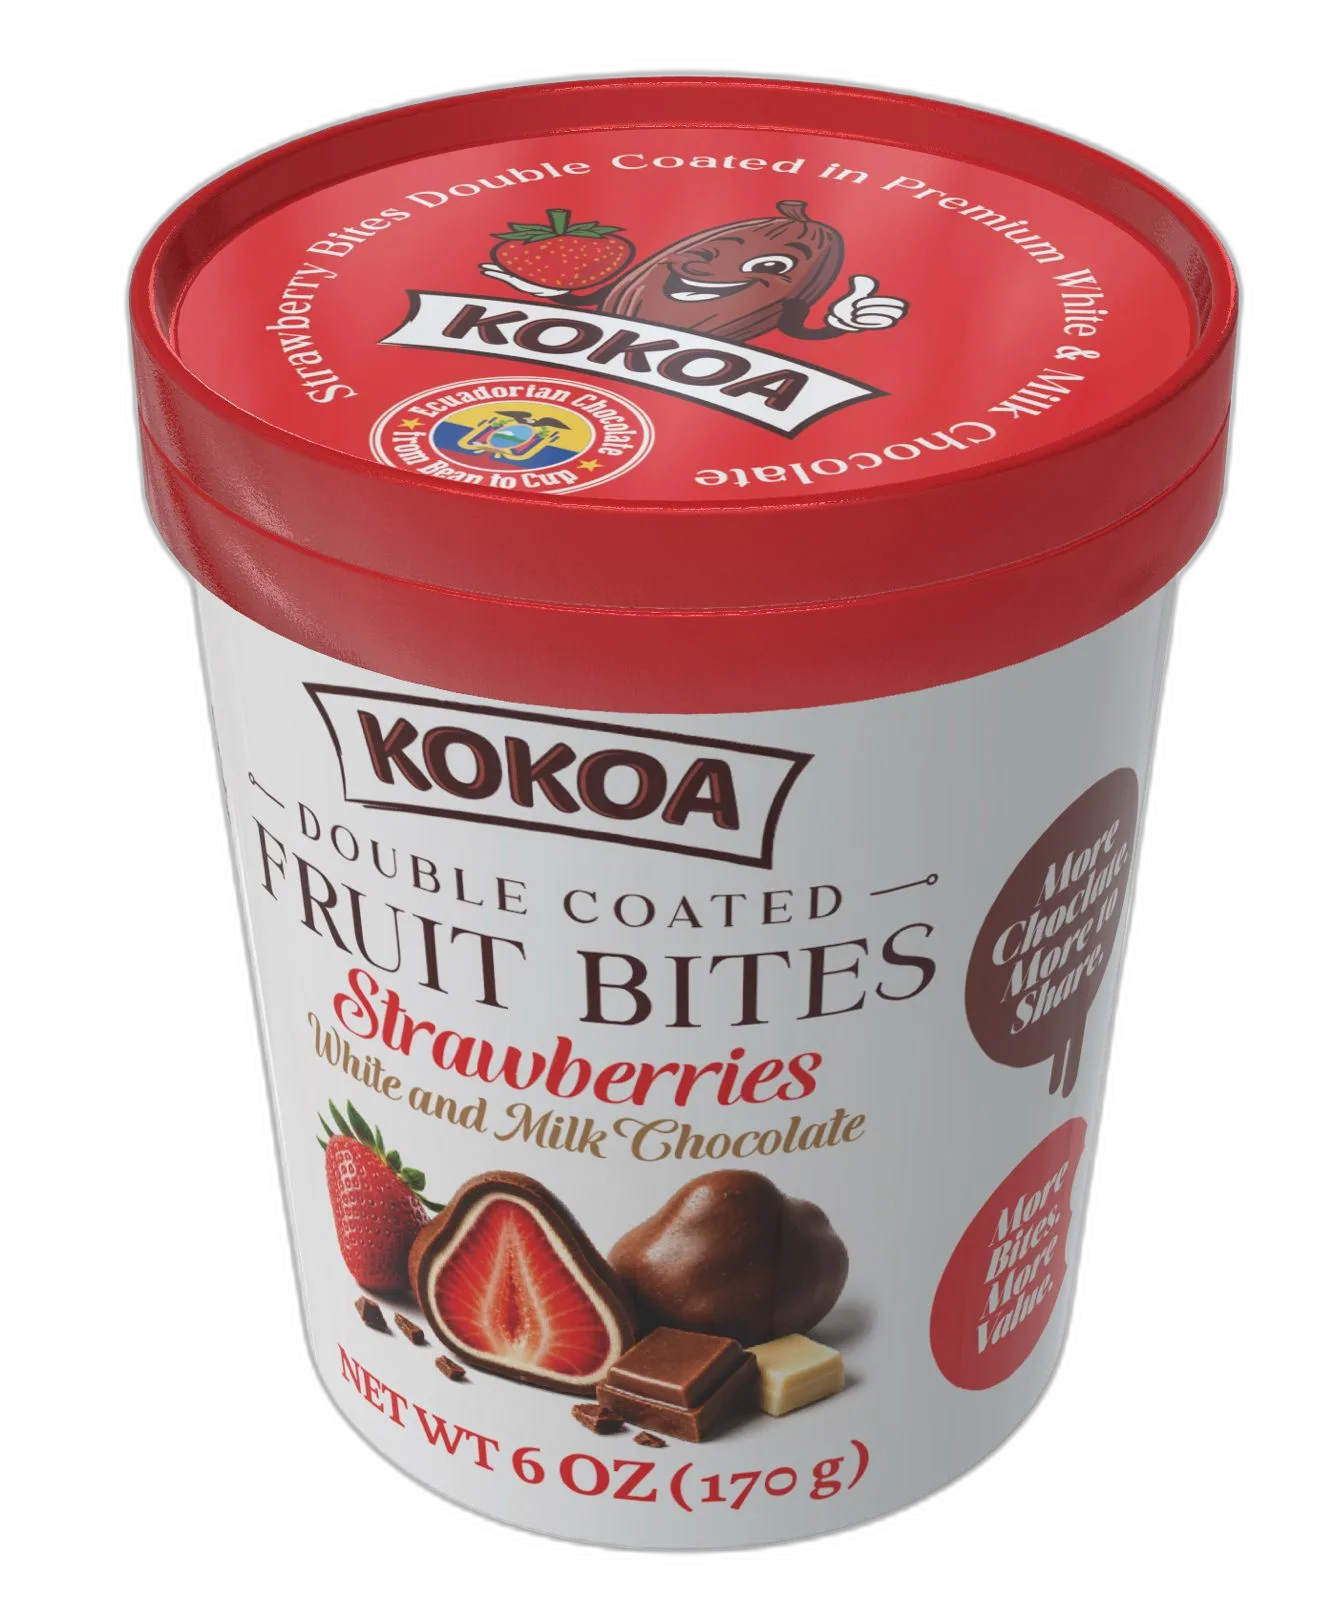
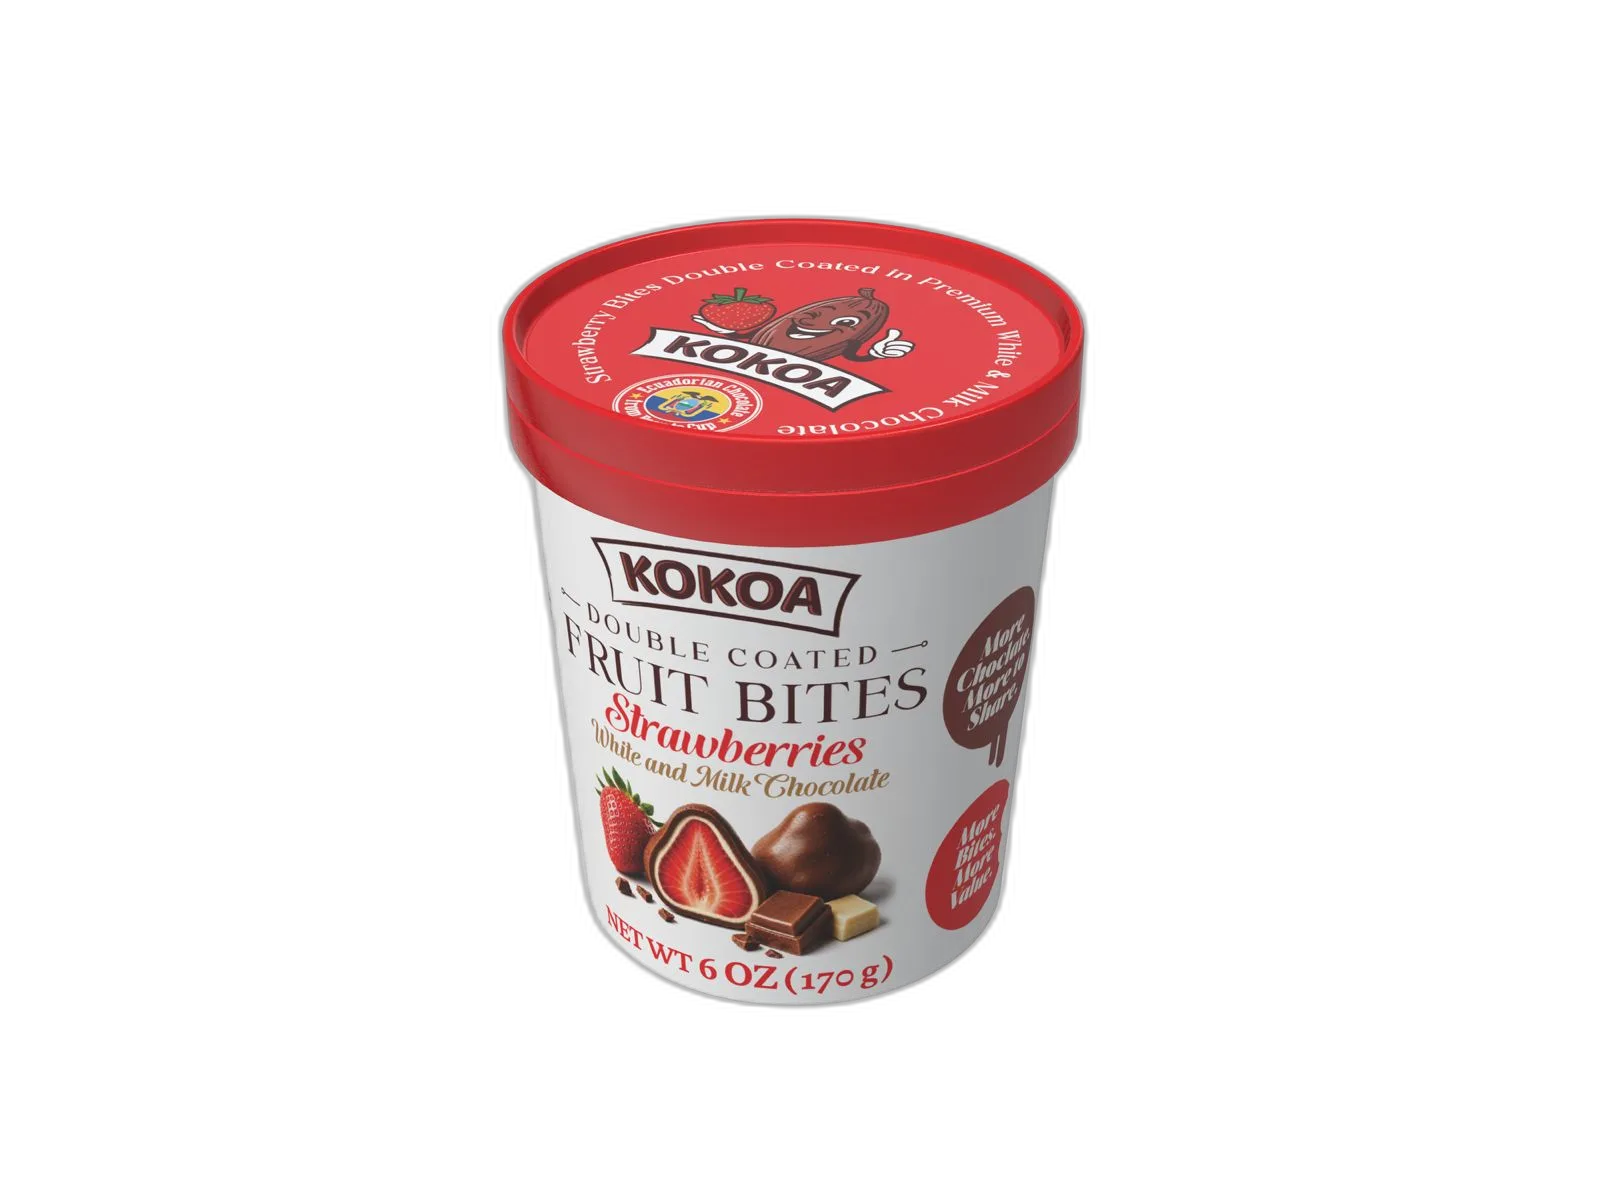
Replace product images with new renders, add Piña Colada flavor
- Background-removed (rembg u2net) and converted the six new owner-uploaded
  tub renders to transparent WebP, overwriting the five existing tub-*.webp
  and adding tub-pina-colada.webp
- Add Piña Colada as a sixth frozen flavor in lib/products.ts (flows through
  Hero carousel, ProductShowcase, and /fancyfood automatically)
- Align dark-chocolate copy to packaging: drop "70%" from rasp-dark and banana
- Preload tub-pina-colada.webp alongside the other tubs

Claude-Session: https://claude.ai/code/session_016McZwwHjLqKntMAZv93nYT

diff --git a/lib/products.ts b/lib/products.ts
@@ -39,7 +39,7 @@ export const frozenFlavors: FrozenFlavor[] = [
     id: "rasp-dark",
     name: "Raspberries Dark",
     fruit: "Whole frozen raspberry",
-    chocolate: "White & 70% Dark Chocolate",
+    chocolate: "White & Dark Chocolate",
     accentColor: "#8B2252",
     image: "/products/tub-rasp-dark.webp",
     market: "US",
@@ -57,9 +57,18 @@ export const frozenFlavors: FrozenFlavor[] = [
     id: "banana",
     name: "Bananas",
     fruit: "Whole frozen banana slice",
-    chocolate: "White & 70% Dark Chocolate",
+    chocolate: "White & Dark Chocolate",
     accentColor: "#A07840",
     image: "/products/tub-banana.webp",
+    market: "US",
+  },
+  {
+    id: "pina-colada",
+    name: "Piña Colada",
+    fruit: "Whole frozen pineapple",
+    chocolate: "Vegan White Chocolate & Coconut",
+    accentColor: "#E89B3C",
+    image: "/products/tub-pina-colada.webp",
     market: "US",
   },
 ];

diff --git a/app/layout.tsx b/app/layout.tsx
@@ -43,6 +43,7 @@ export default function RootLayout({
           "/products/tub-rasp-dark.webp",
           "/products/tub-blue.webp",
           "/products/tub-banana.webp",
+          "/products/tub-pina-colada.webp",
         ].map((src) => (
           <link key={src} rel="preload" as="image" href={src} fetchPriority="high" />
         ))}
